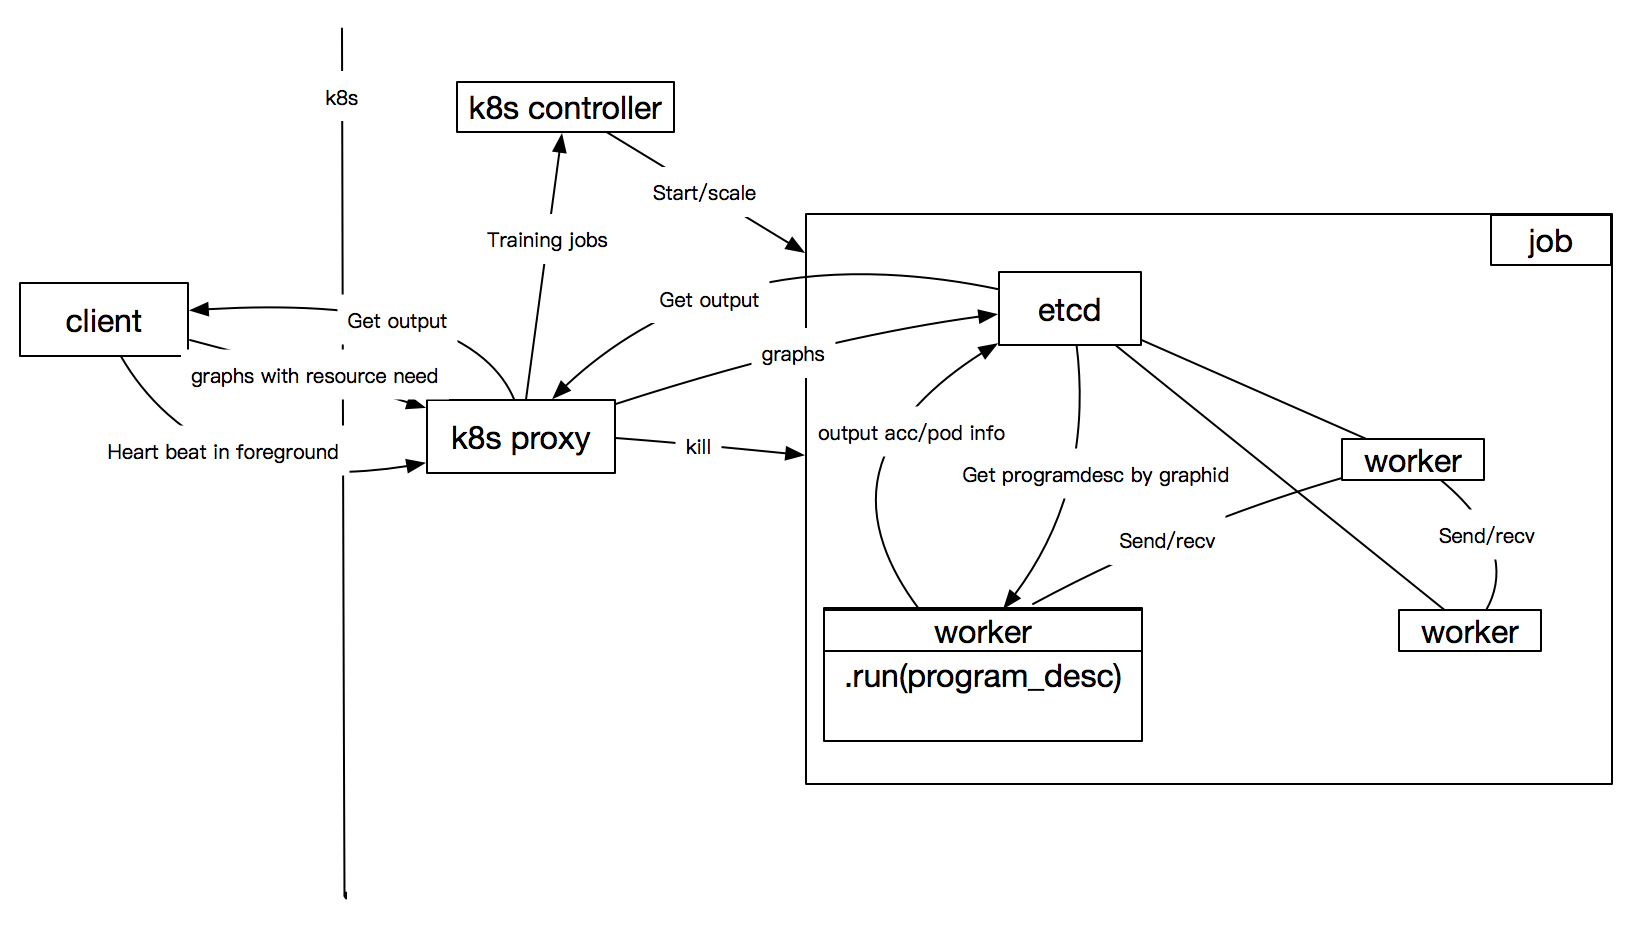
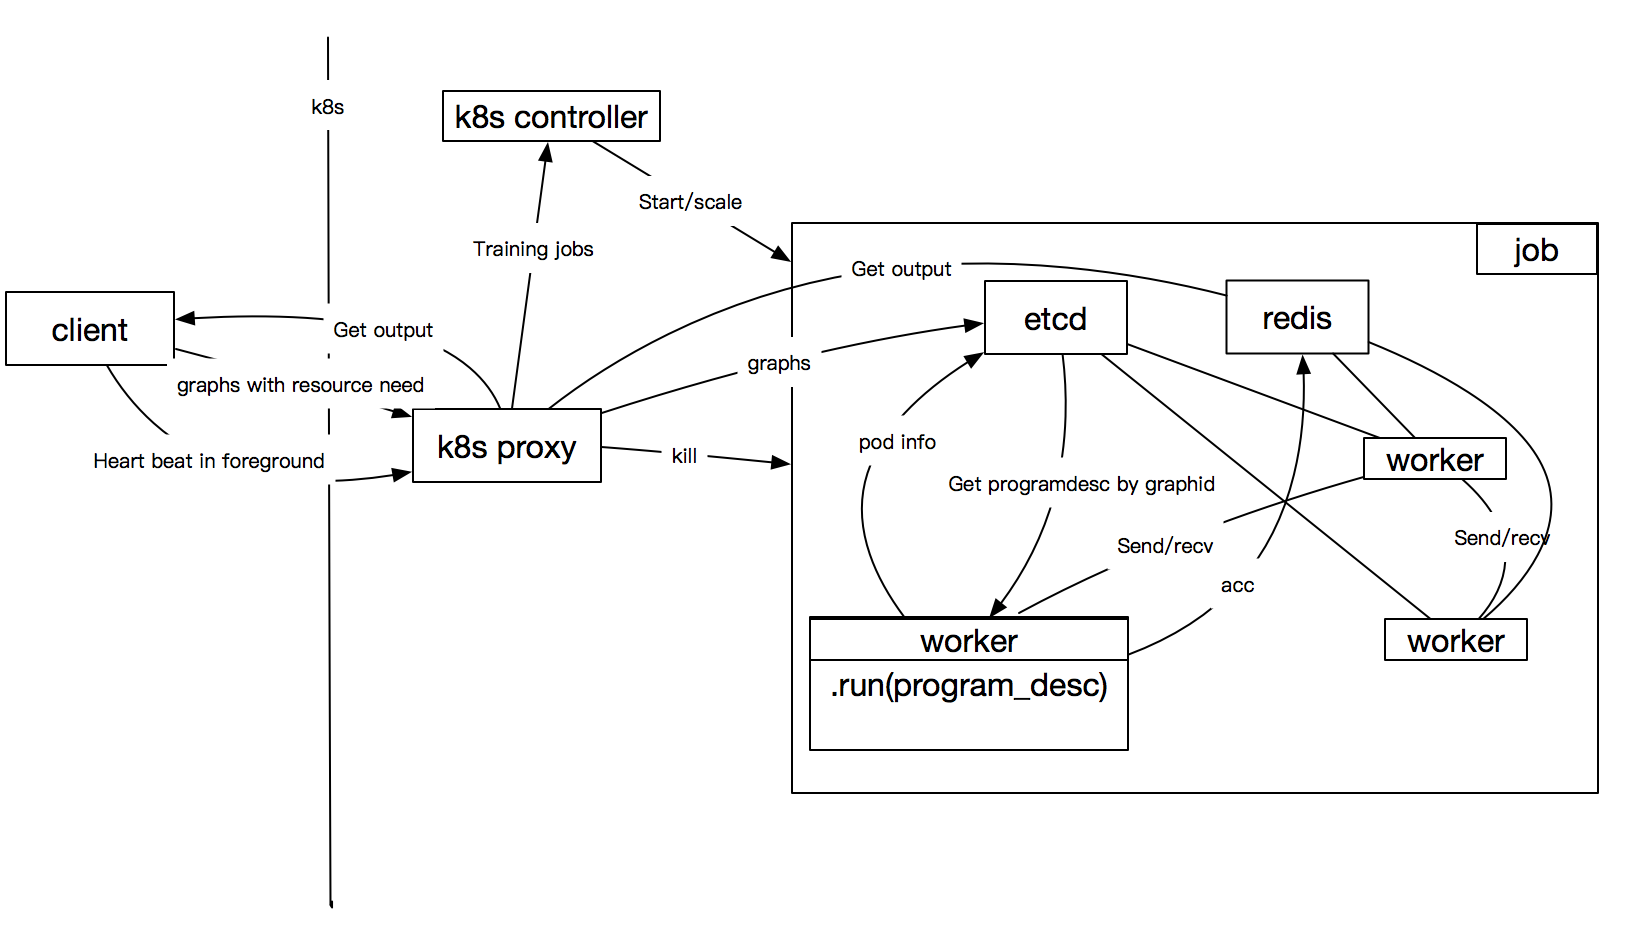
add redis

diff --git a/doc/design/dist_refactor/distribution_arch2.md b/doc/design/dist_refactor/distribution_arch2.md
@@ -1,13 +1,15 @@
-## Logic
-All modules are decoupled when we store data(program and some output) to etcd.
+## Abstract
+All modules are decoupled when we store data to storage.
 
 - Transpile program desc to sub-program descs(graphs) and
-- Store them to etcd
+- Store graphs to etcd
 	- one graph has unique ID. 
 	- one graph has the desired resource.
 - Start workers(pods) to run one graph
-   - worker store pod info to etcd, so 
-   - the graph can communicate with each other by graph_ID.
+   - worker stores pod info to etcd, so 
+   - the graphs can communicate with each other by graphID.
+- Store output to Redis.
+   - lost data impact is not large.
 
 
 ## Architect graph
@@ -17,6 +19,11 @@ All modules are decoupled when we store data(program and some output) to etcd.
 
 - foreground job: when the client exits the jobs will be killed.
 - background job: client's death doesn't affect the job.
+
+
+<div style="align: center">
+<img src="src/dist-graph2.png" width="700" align=center/>
+</div>
 
 ## Peudo code of users
 ```
@@ -49,31 +56,31 @@ jobs.stop()
 
 
 ## Data base 
-- etcd is a key-value storage, but we can convert a table to key-value style easily by use combination key.
+- etcd and Redis is a key-value storage, but we can convert a table to key-value style easily by use combination key.
 - We store info in multiple tables because some of them may be changed more frequently than others.
 
 ### Table: graph_program_desc
 
 | column name | description|
 |----------|-------------|
-| graph_ID |  ID of graph, key    |
+| graphID |  ID of graph, key    |
 | program_desc| program desc to be executed    |
-| send_var_graph_map|map of var which will be send and graph_ID|
-| recv_var_graph_map|map of var which will be received and graphID|
-|resource|resource need by this graph|
+| send_var_graph_map|map of variable and graphID|
+| recv_var_graph_map|map of variable and graphID|
+|resource|resource needed by this graph|
 
 ### Table: graph_pod
 | column name | description|
 |----------|-------------|
-|graph_ID|ID of graph|
-|pod_name|pod name which execut graph, may be changed|
+|graphID|ID of graph|
+|pod_name|pod name which executes graph, may be changed|
 |pod_ip|pod ip which execut graph|
-|pod_port|pod port which execut graph|
+|pod_port|pod port which executes graph|
 
 ### Table: graph_output
 | column name | description|
 |----------|-------------|
-|graph_ID|ID of graph|
+|graphID|ID of graph|
 |output|output of this graph,it's a list|
 |checkpoint|last checkpoint of this graph|
 
@@ -85,7 +92,7 @@ jobs.stop()
 - Kubernets start new worker and worker executor normally.
 
 ## Auto scaling
-Change graph_ID and send/receive the variable map, so the workers can communicate with others correctly.
+Change graphID and send/receive the variable map, so the workers can communicate with others correctly.
 
 
 ## Discussion
